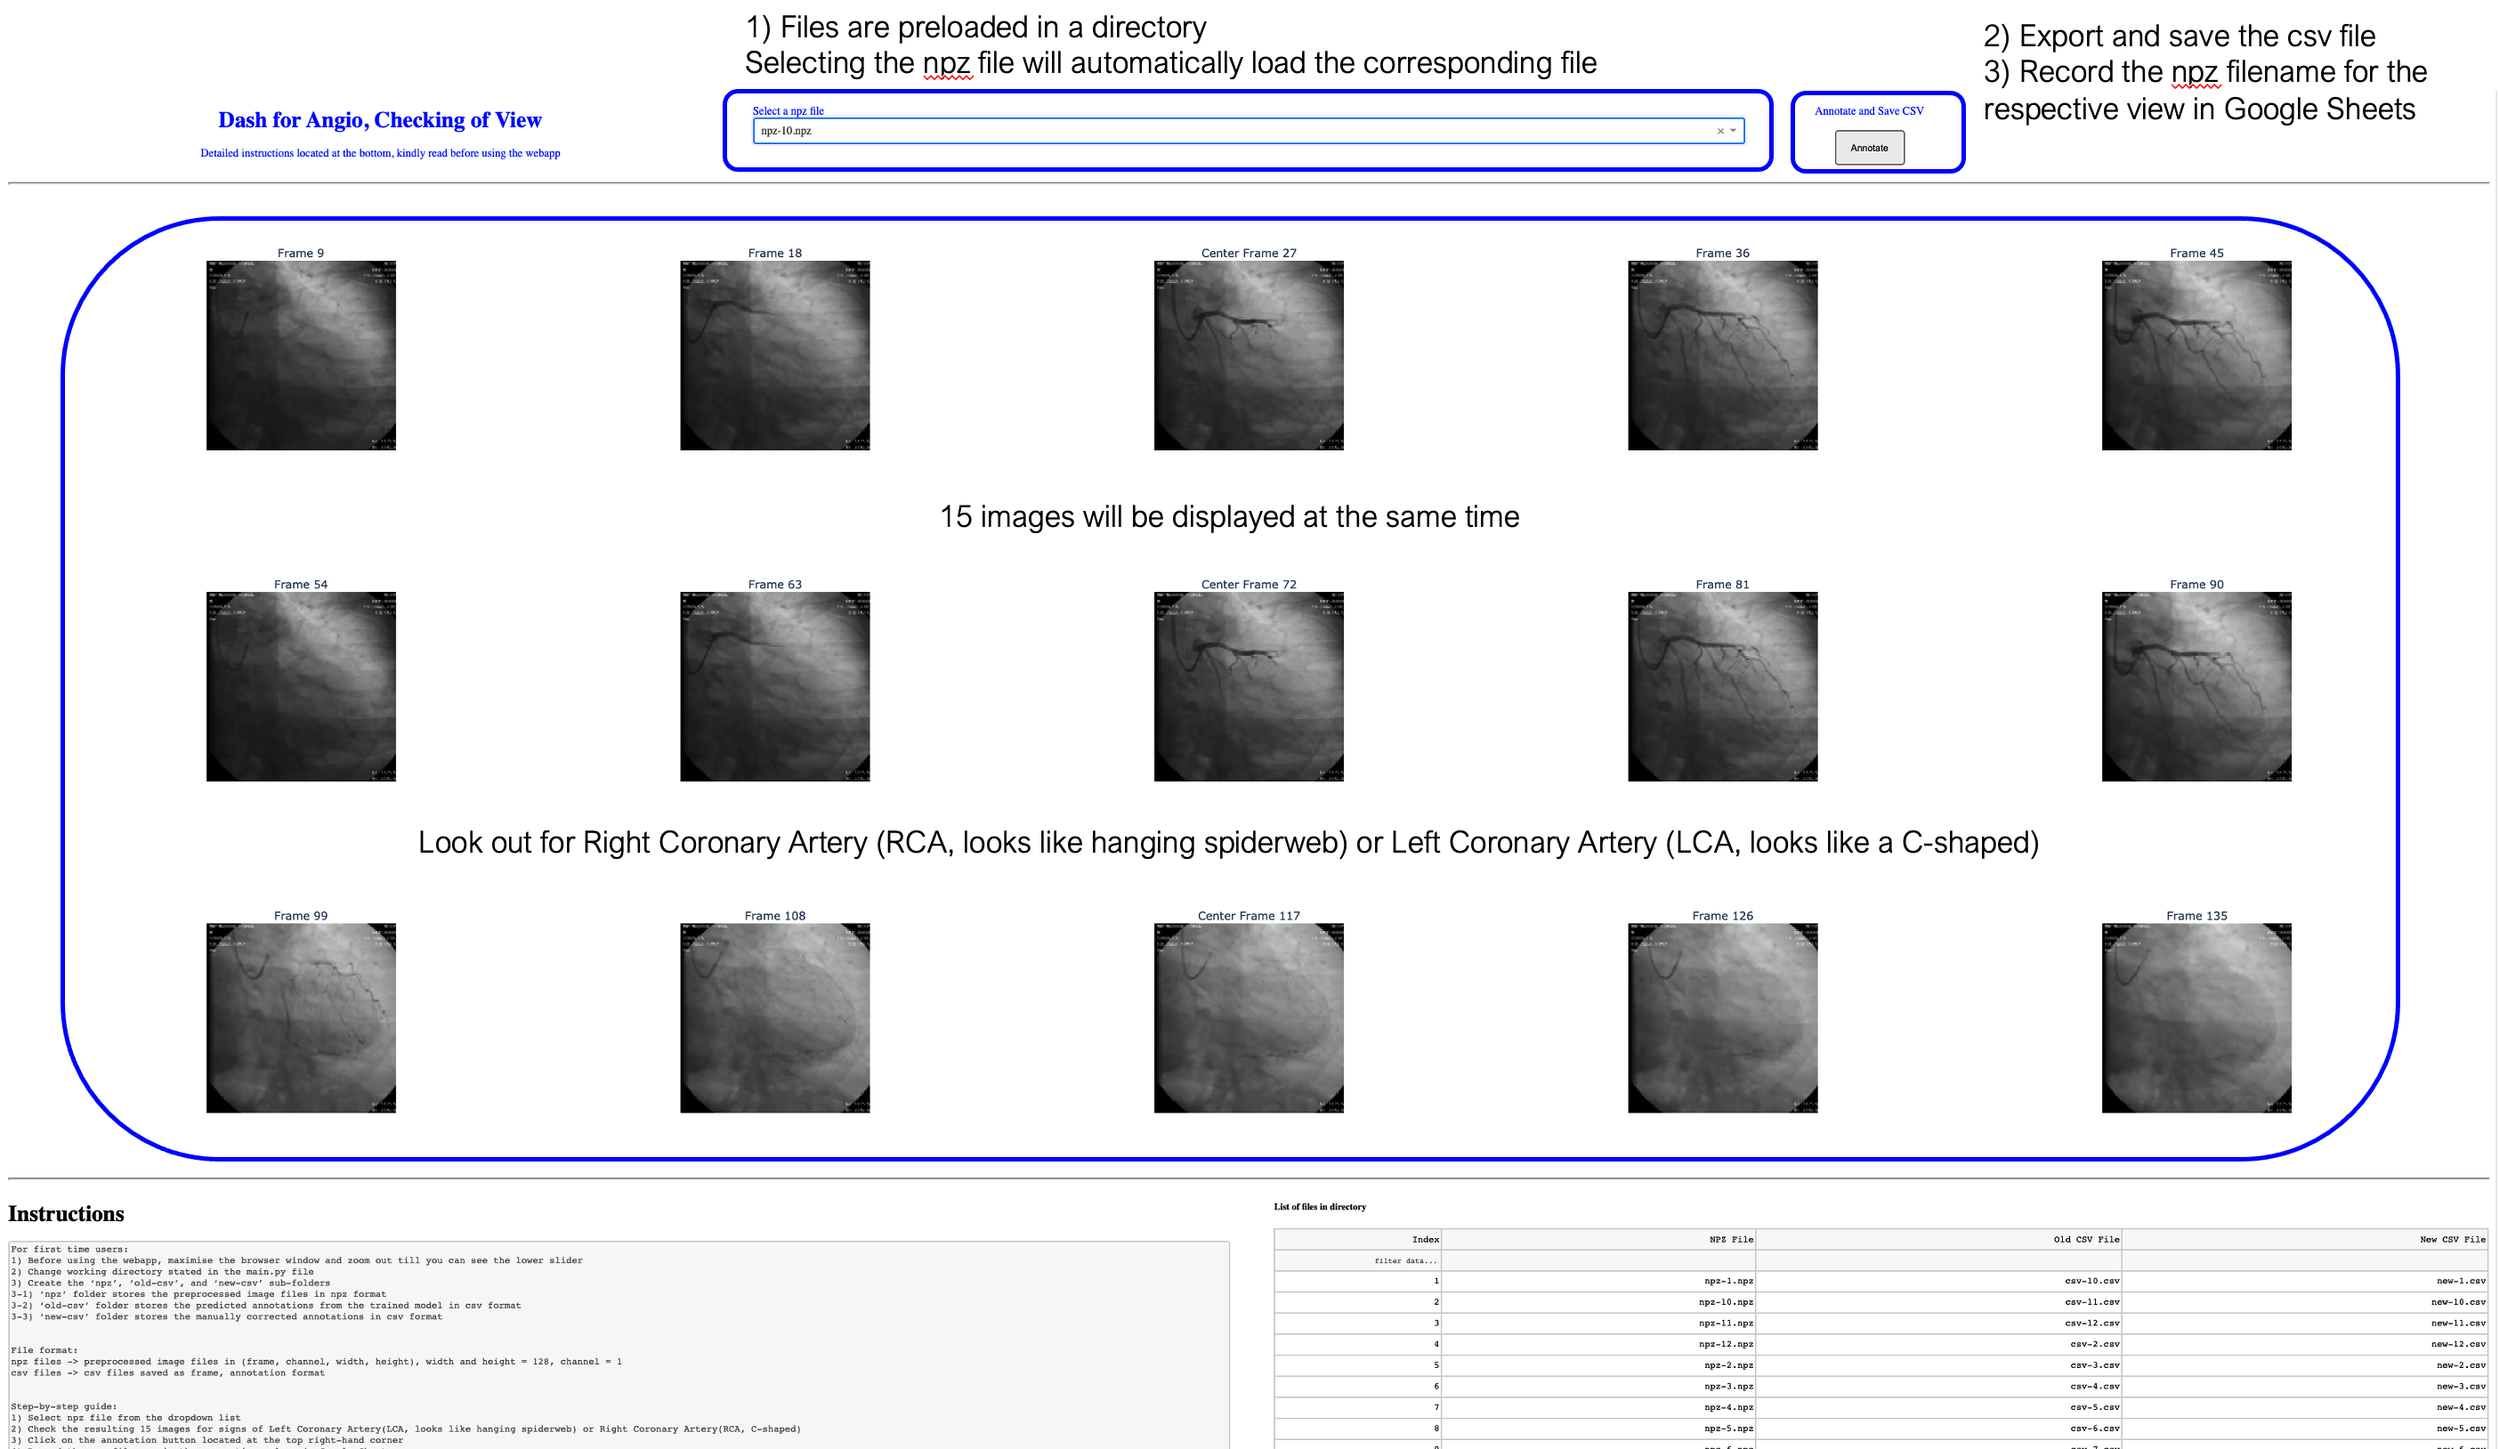
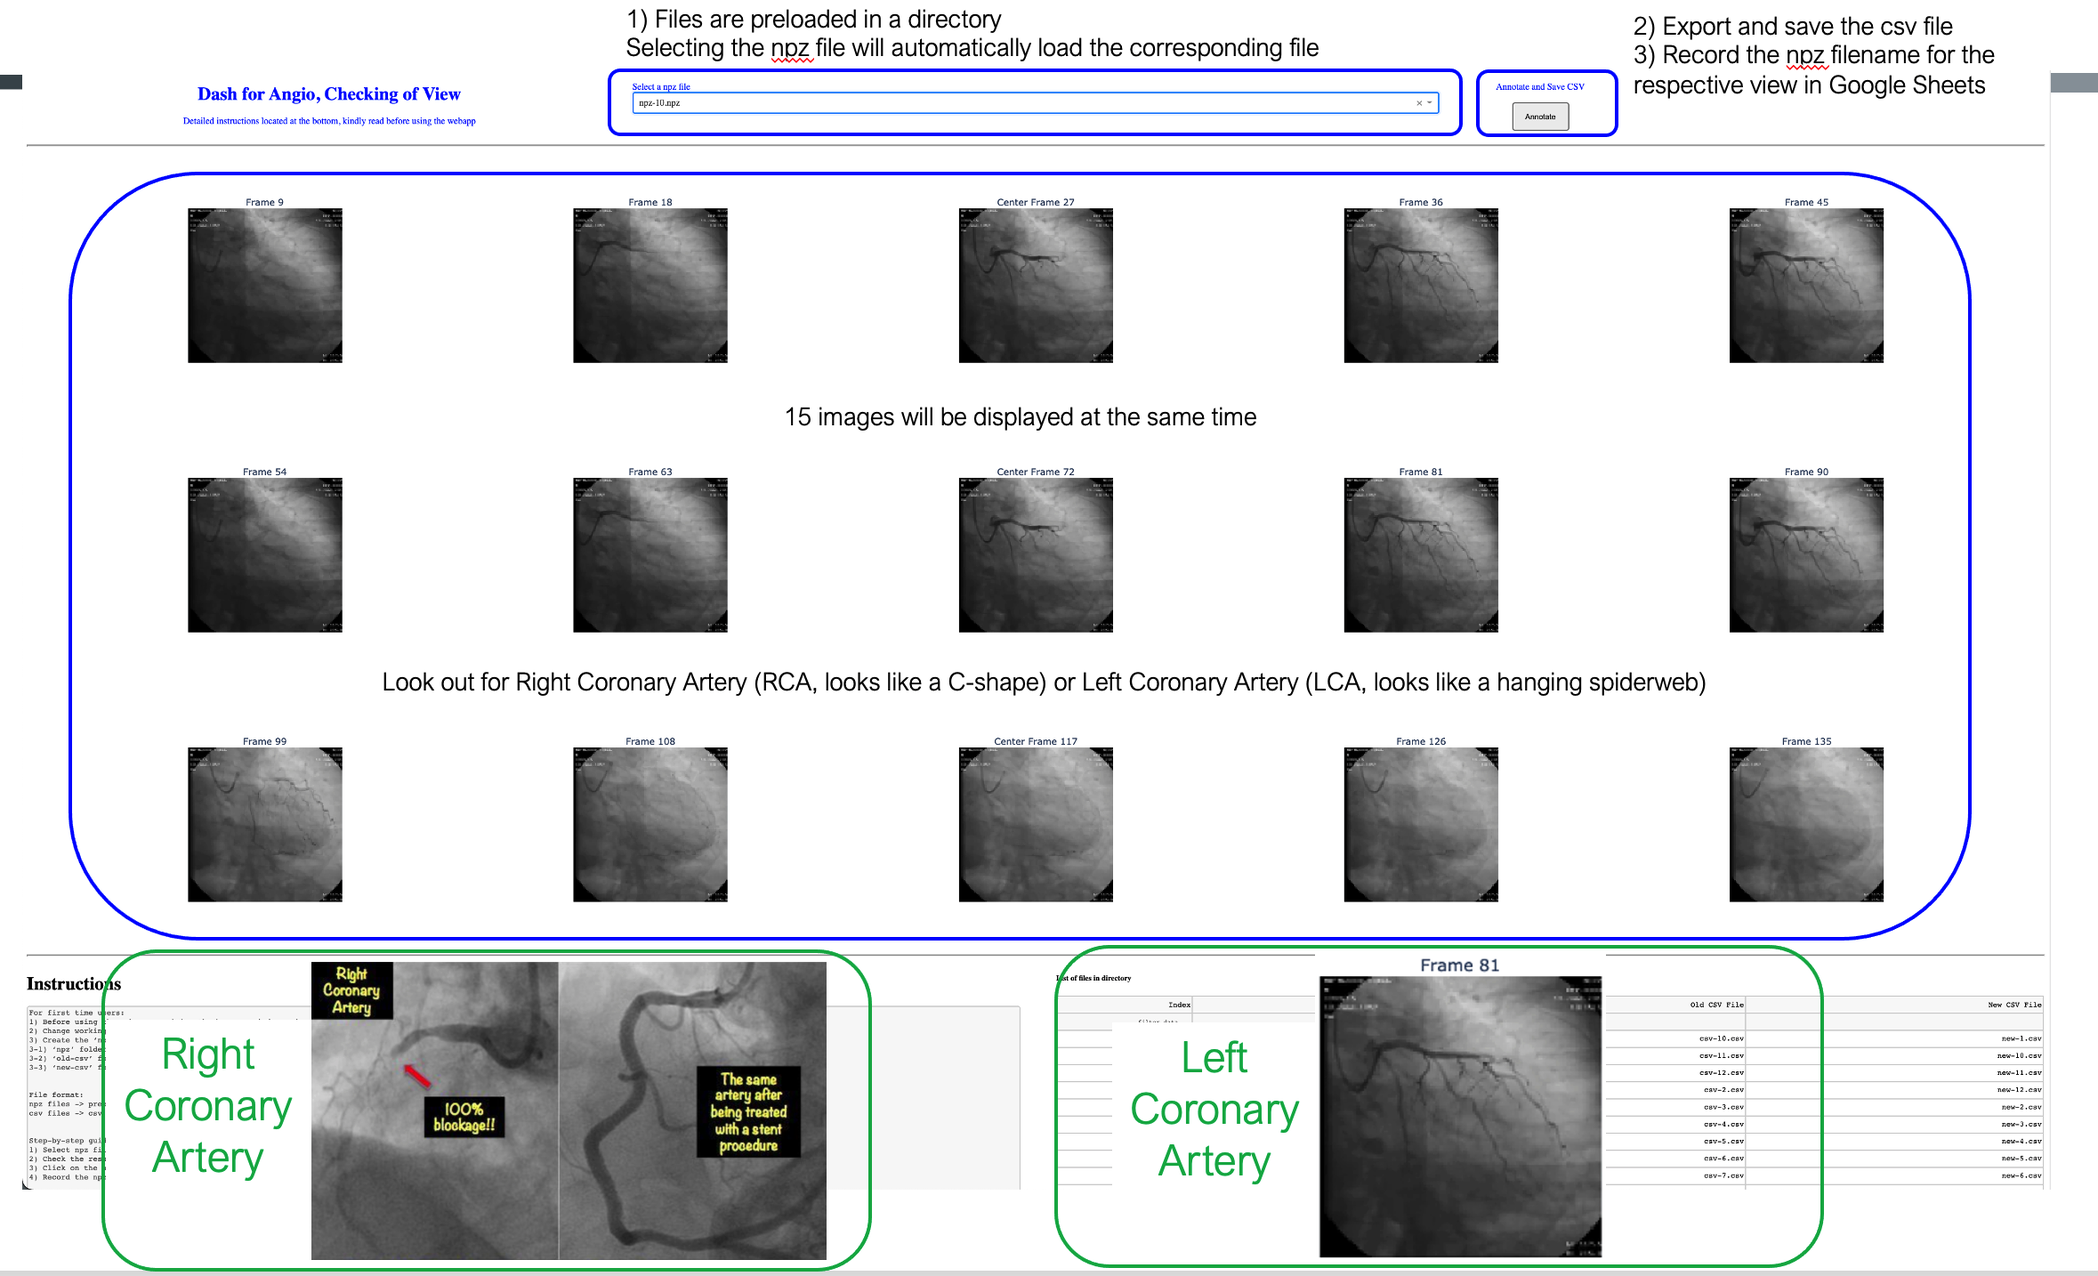
Updated check_view and illustration

diff --git a/src/check_view.py b/src/check_view.py
@@ -386,19 +386,19 @@ def update_image(filename):
         print(base_number)
 
         if base_number != 0:
-            image_neg2 = image_array[base_number,0,:,:]
+            image_neg2 = image_array[base_number * 6,0,:,:]
             image_neg2 = np.repeat(image_neg2[:,:, np.newaxis], 3, axis = 2)
 
-            image_neg1 = image_array[base_number * 2,0,:,:]
+            image_neg1 = image_array[base_number * 7,0,:,:]
             image_neg1 = np.repeat(image_neg1[:,:, np.newaxis], 3, axis = 2)
 
-            image_centre = image_array[base_number * 3, 0, :, :]
+            image_centre = image_array[base_number * 8, 0, :, :]
             image_centre = np.repeat(image_centre[:, :, np.newaxis], 3, axis=2)
 
-            image_pos1 = image_array[base_number * 4, 0, :, :]
+            image_pos1 = image_array[base_number * 9, 0, :, :]
             image_pos1 = np.repeat(image_pos1[:, :, np.newaxis], 3, axis=2)
 
-            image_pos2 = image_array[base_number * 5, 0, :, :]
+            image_pos2 = image_array[base_number * 10, 0, :, :]
             image_pos2 = np.repeat(image_pos2[:, :, np.newaxis], 3, axis=2)
 
         else:
@@ -472,7 +472,7 @@ def update_image(filename):
         base_number = int(image_array.shape[0]/15)
 
         if base_number != 0:
-            image_neg2 = image_array[base_number*11,0,:,:]
+            image_neg2 = image_array[base_number * 11,0,:,:]
             image_neg2 = np.repeat(image_neg2[:,:, np.newaxis], 3, axis = 2)
 
             image_neg1 = image_array[base_number * 12,0,:,:]
